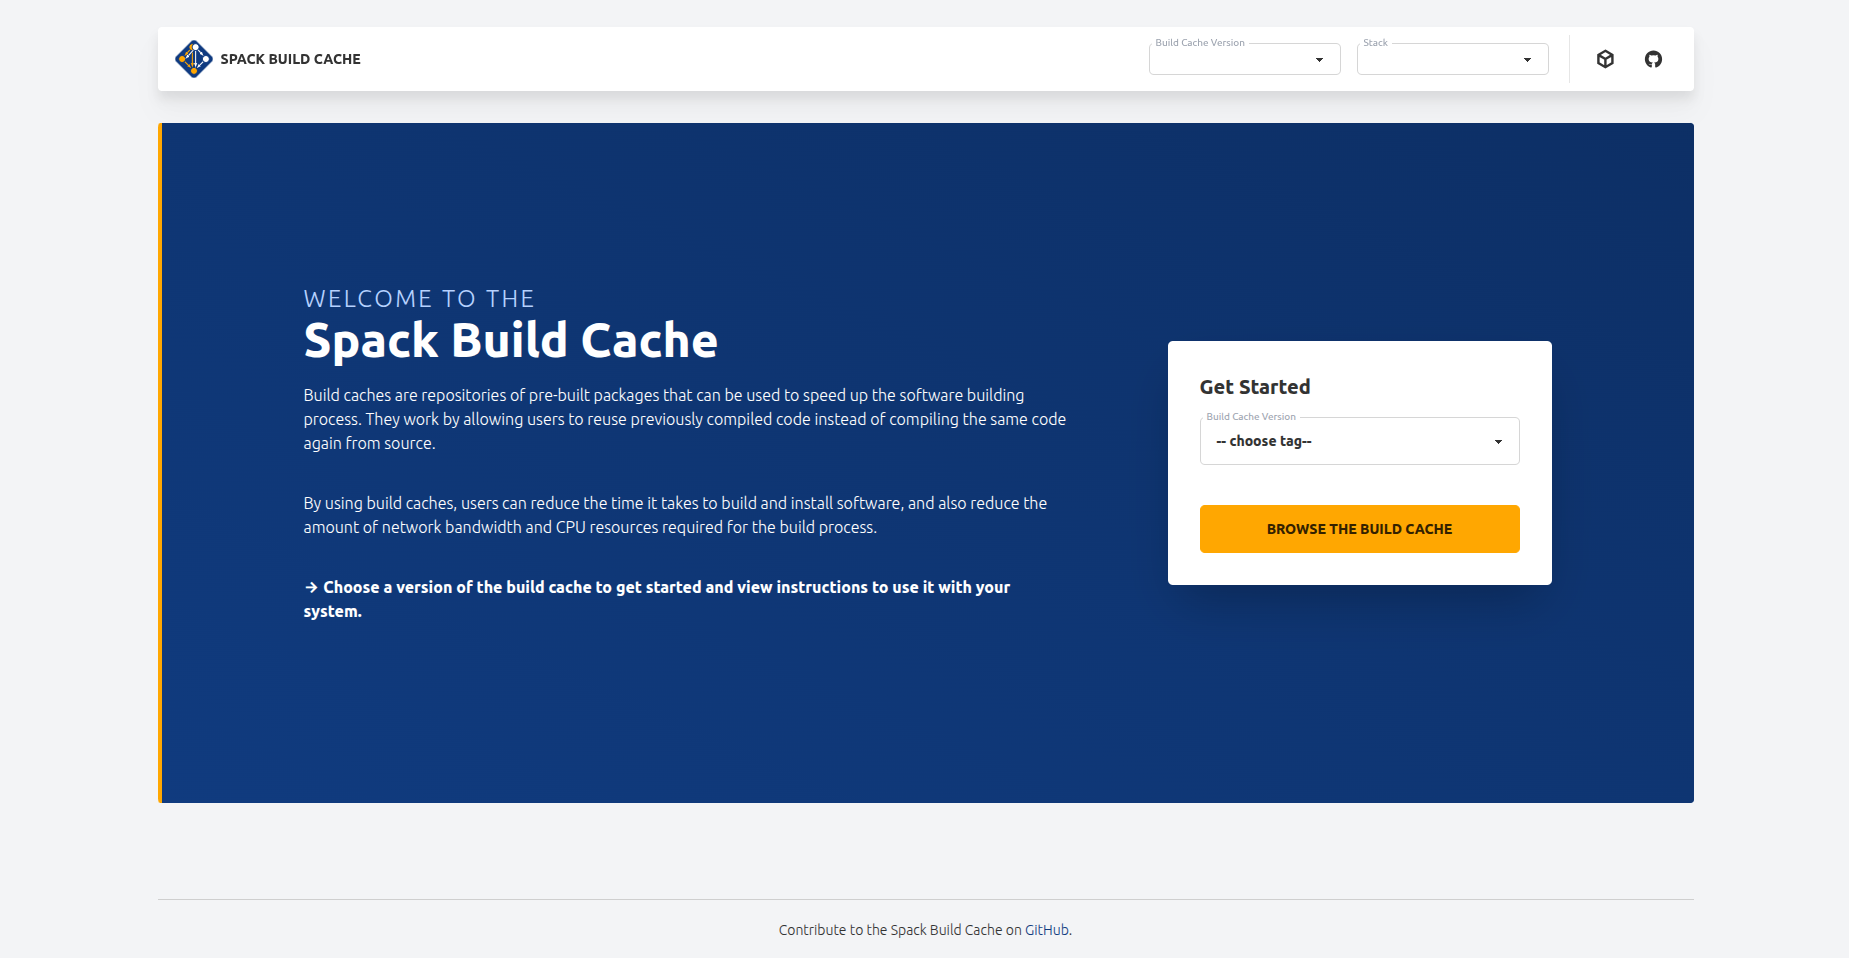
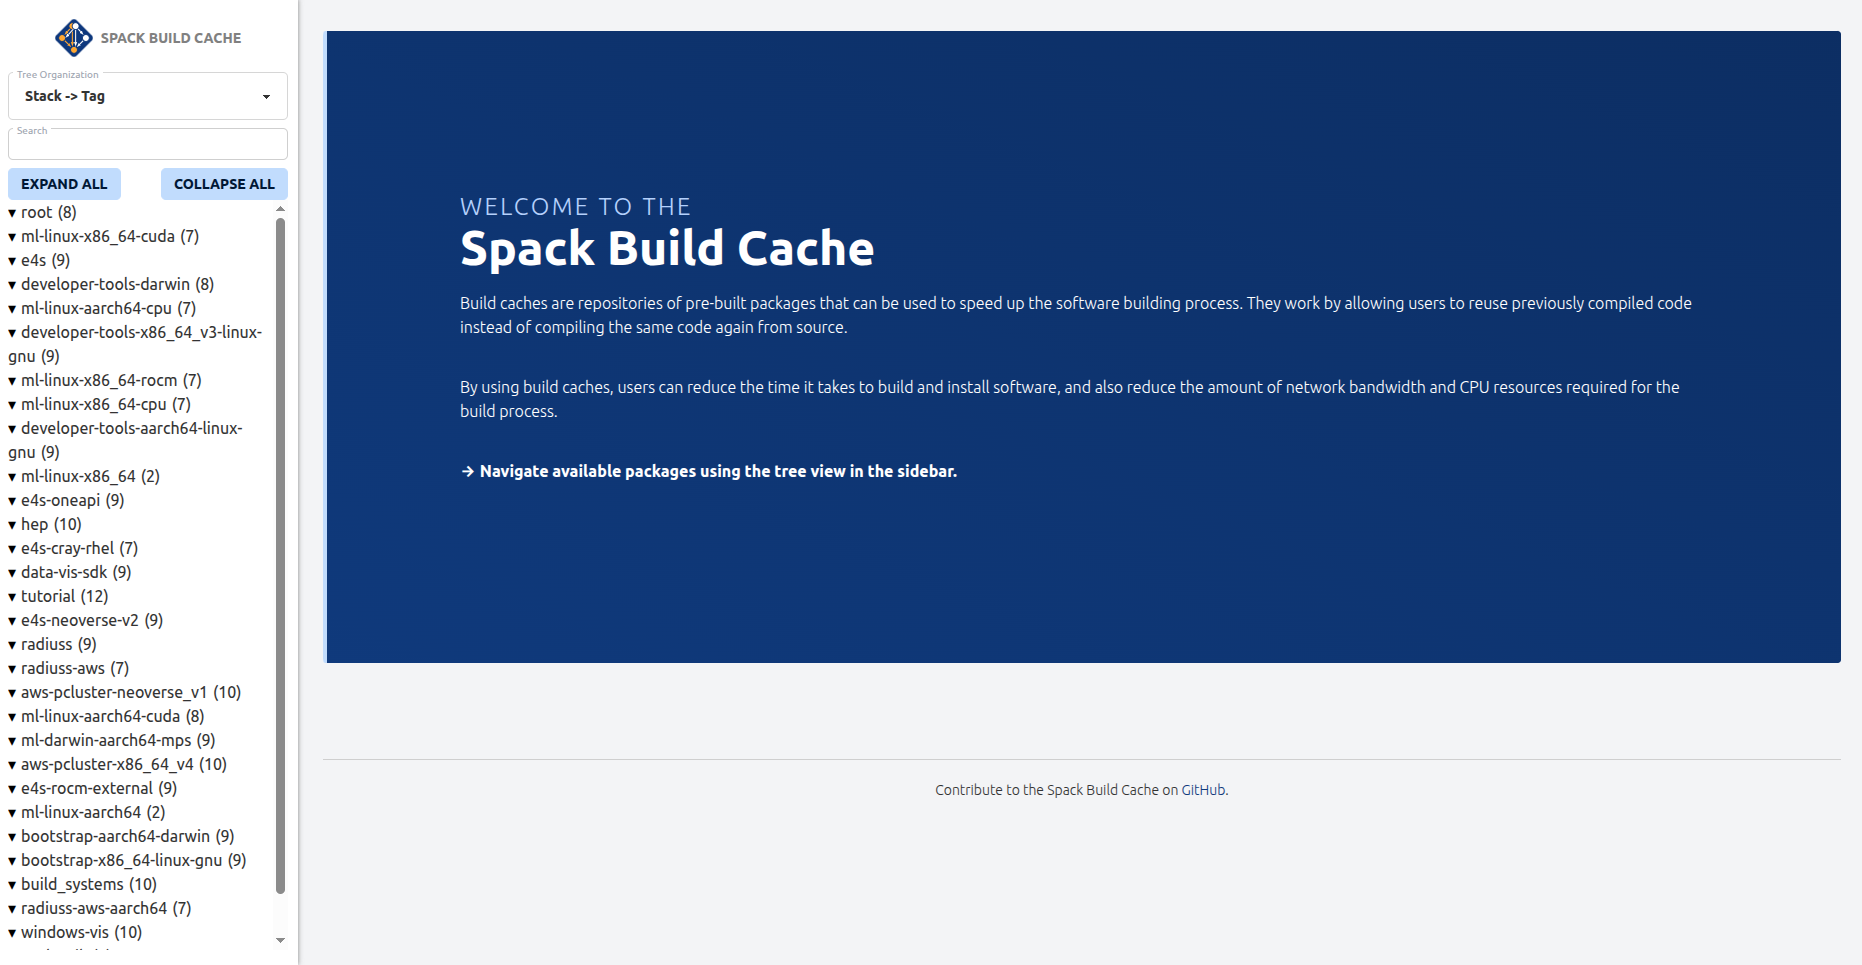
Update readme screenshots

diff --git a/README.md b/README.md
@@ -6,11 +6,7 @@ View the deployment at [annehaley.github.io/spack_cache/](https://annehaley.gith
 
 ![Home View](screenshots/spack_cache_home_view.png)
 
-This small interface provides a summary table that shows versions, total specs, and allows for basic search!
-
-![Home View](screenshots/spack_cache_table_view.png)
-
-When you dig into a particular build cache package, you'll be presented with another view to inspect specs in detail, or search.
+When you select a package name from the tree in the sidebar, you'll be presented with a table to compare available specs for that package.
 
 ![Home View](screenshots/spack_cache_package_view.png)
 
